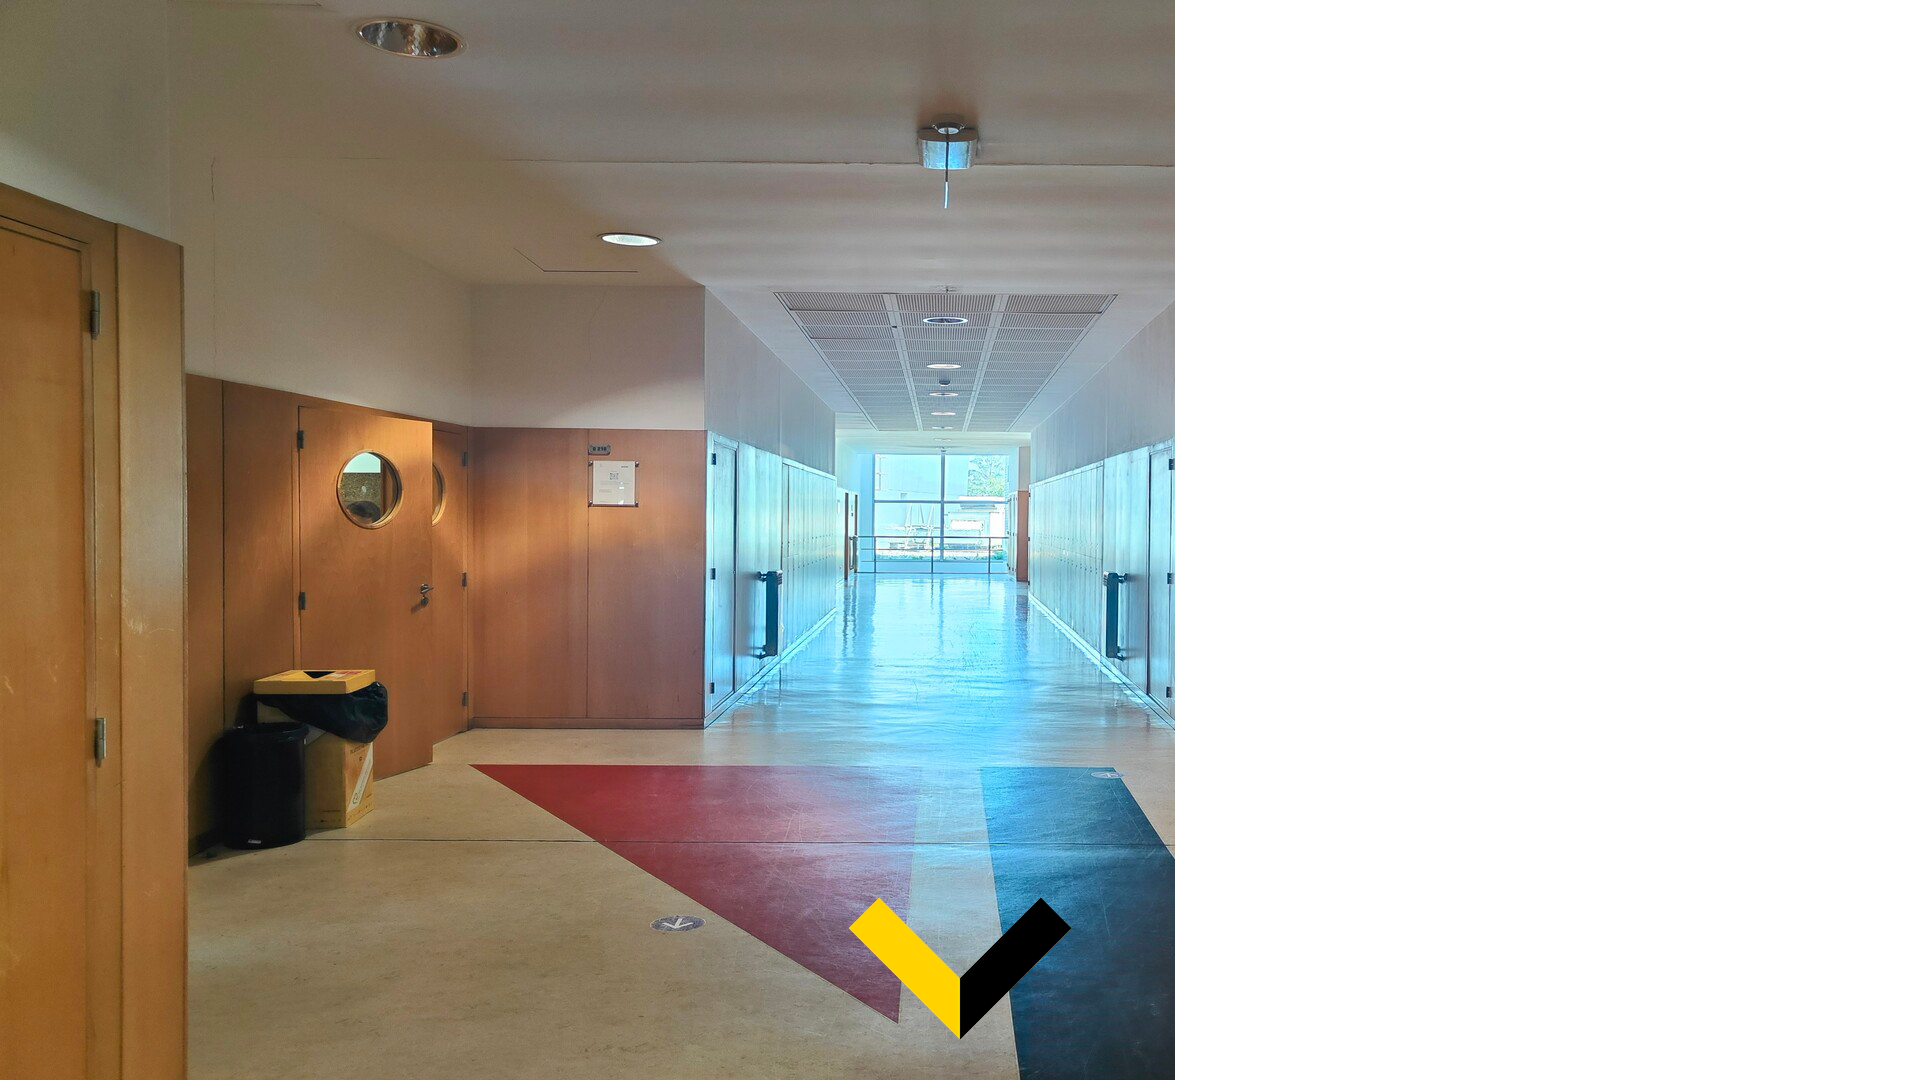
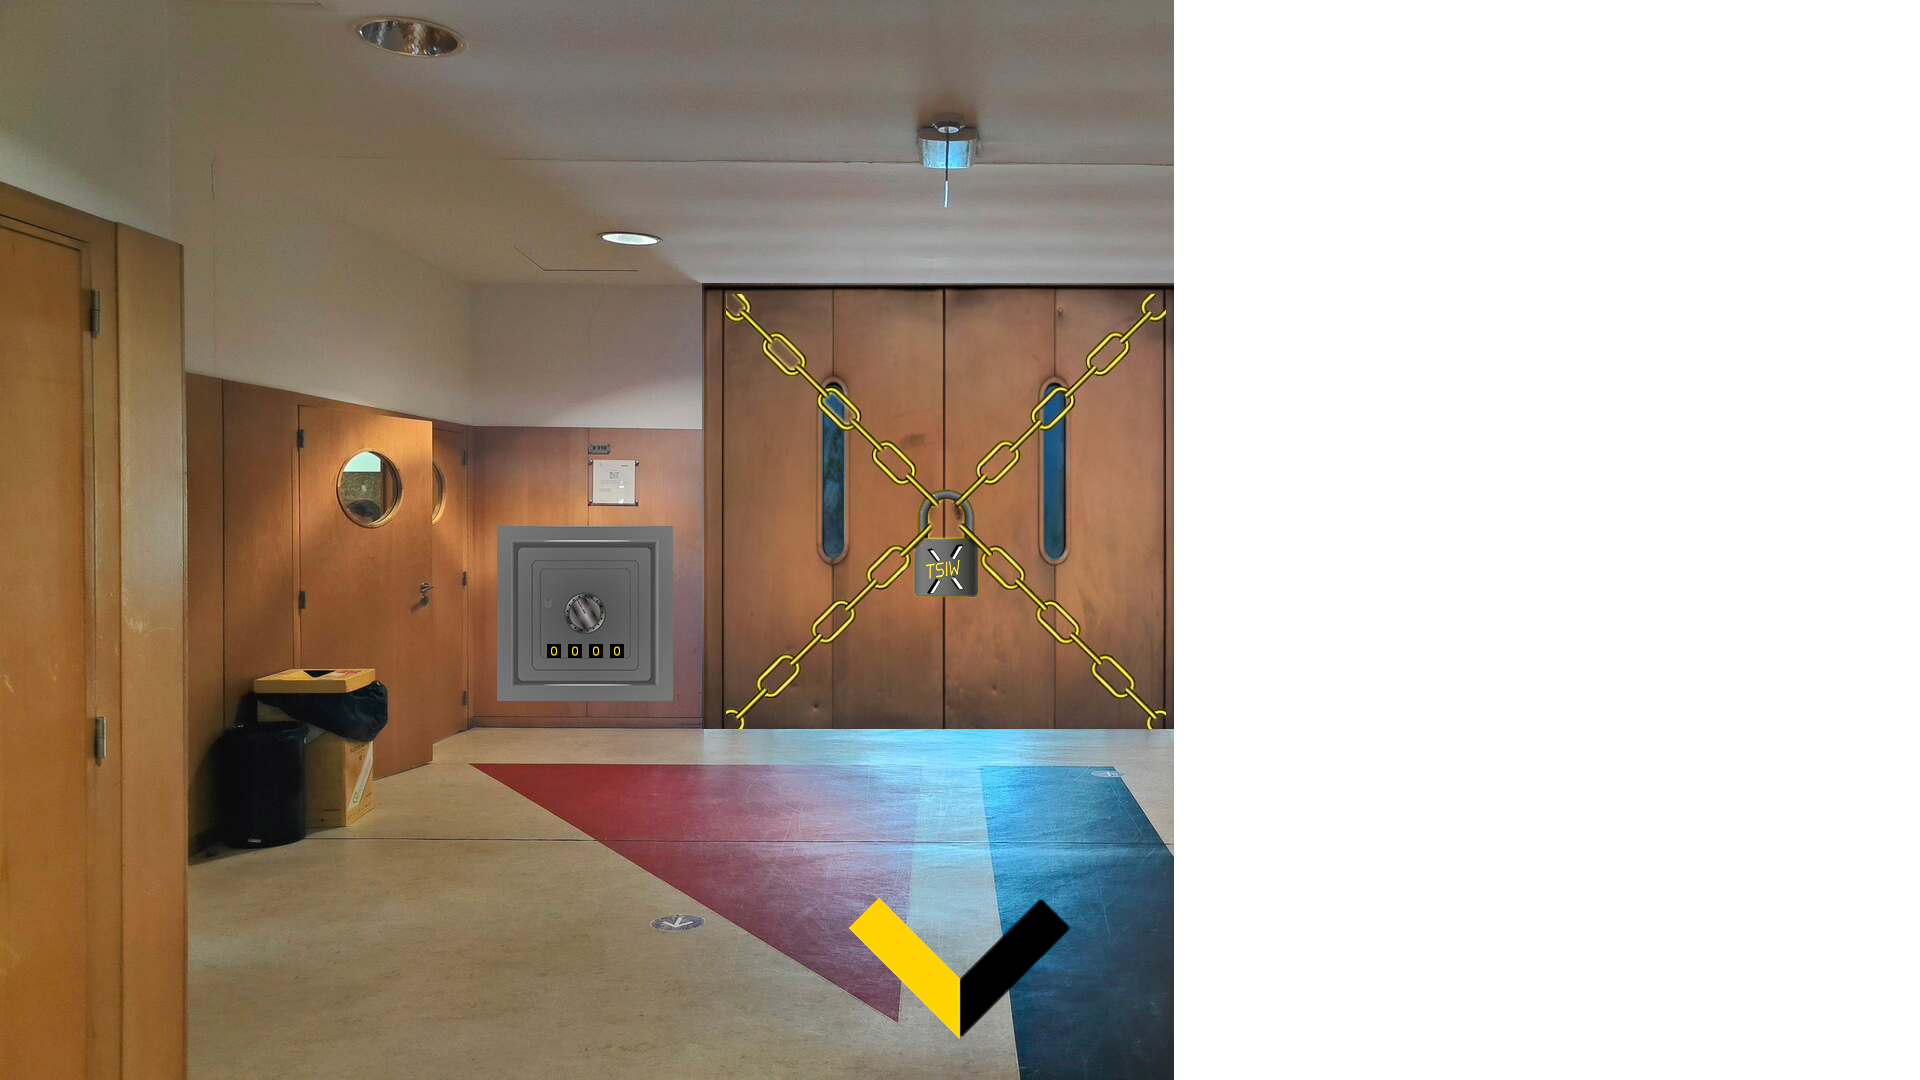
Mudar imagens hall3

diff --git a/html/Escape Room/hall_3.html b/html/Escape Room/hall_3.html
@@ -61,7 +61,7 @@
     <!-- hero section -->
     <section class="imgHero vh-100 w-100 mx-0 ">
         <img usemap="#heroMap" class="img-fluid img-responsive d-block vh-100 w-100 z-0 fixed-top"
-            src="../../media/img/ER-assets/hall3.jpg" alt="Hall 1">
+            src="../../media/img/ER-assets/hall3CofreFechado.jpg" alt="Hall 3">
         <map name="heroMap">
             <area id="hall3Left" shape="rect" coords="296,403,465,777" title="Sala 210" alt="Sala 210" href="#">
             <area id="hall3Right" shape="rect" coords="1421,442,1574,811" title="Sala 211" alt="Sala 211"
